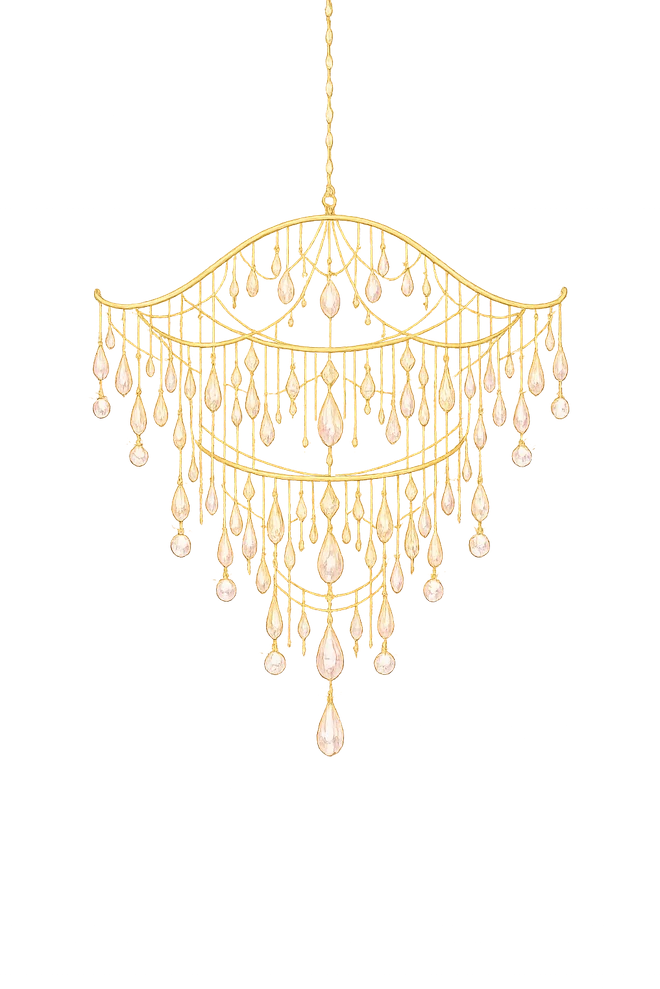
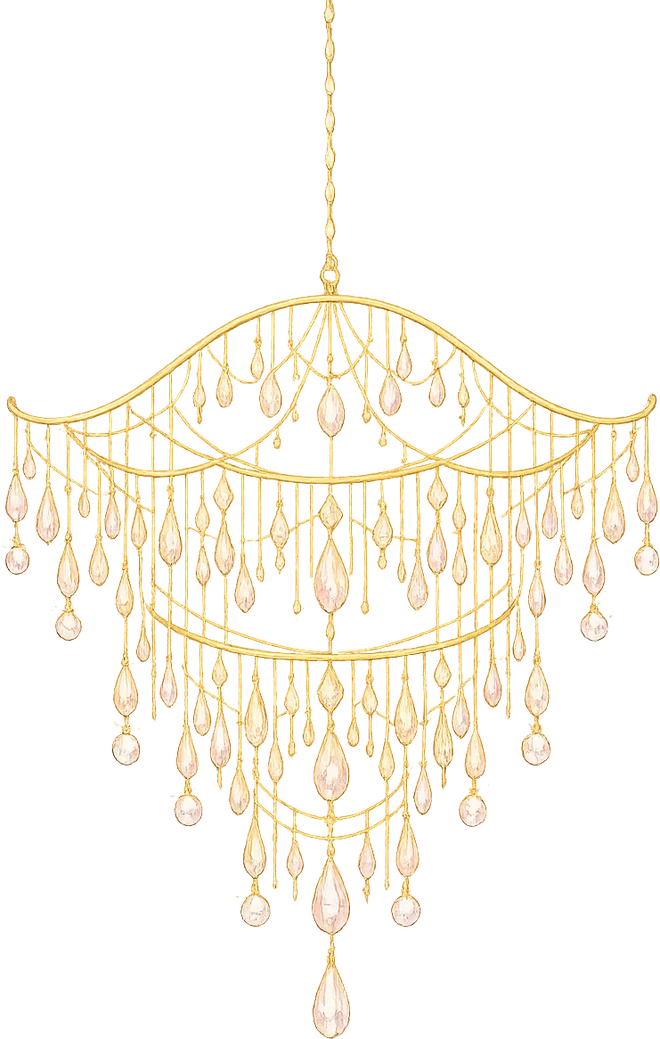
표지 비율 재구성

Changed region(s): [[0.0, 0.0, 1.0, 1.0], [0.8485, 0.273, 0.8788, 0.3033], [0.1212, 0.273, 0.1515, 0.3033]]

diff --git a/index.html b/index.html
@@ -102,7 +102,7 @@
   .cover {
     min-height: 100vh;
     min-height: 100svh;
-    padding: 46px 30px 32px;
+    padding: 38px 30px 28px;
     text-align: center;
     display: flex;
     flex-direction: column;
@@ -163,11 +163,11 @@
   /* 샹들리에 — 생성 일러스트 */
   .chandelier-art {
     position: relative;
-    margin-bottom: 16px;
+    margin-bottom: 12px;
   }
   .chandelier-art img {
     display: block;
-    width: min(132px, 36vw);
+    width: min(118px, 32vw);
     height: auto;
     margin: 0 auto;
     /* 브라스 팔레트에 맞춘 톤 보정 */
@@ -198,8 +198,8 @@
   /* 아치 통창 — 생성 일러스트 */
   .arch-art {
     position: relative;
-    width: min(256px, 68vw);
-    margin: 0 auto 26px;
+    width: min(202px, 54vw);
+    margin: 0 auto 20px;
   }
   .arch-art img {
     display: block;
@@ -668,10 +668,10 @@
       <i></i><i></i><i></i><i></i><i></i><i></i><i></i><i></i><i></i><i></i><i></i>
     </div>
     <div class="fg seq-1 chandelier-art" aria-hidden="true">
-      <img src="assets/chandelier.webp" alt="" width="660" height="989">
+      <img src="assets/chandelier.webp" alt="" width="660" height="1039">
     </div>
     <div class="fg seq-2 arch-art">
-      <img src="assets/arch-window.webp" alt="" width="900" height="1323">
+      <img src="assets/arch-window.webp" alt="" width="567" height="1270">
       <div class="inner">
         <p class="small-word">빛이 먼저 닿는 곳</p>
         <p class="names-line">
